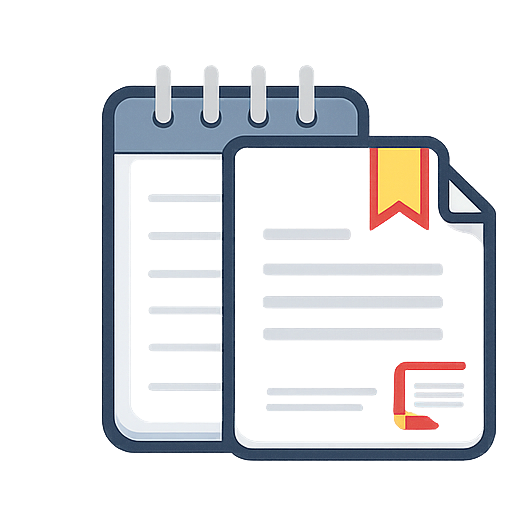
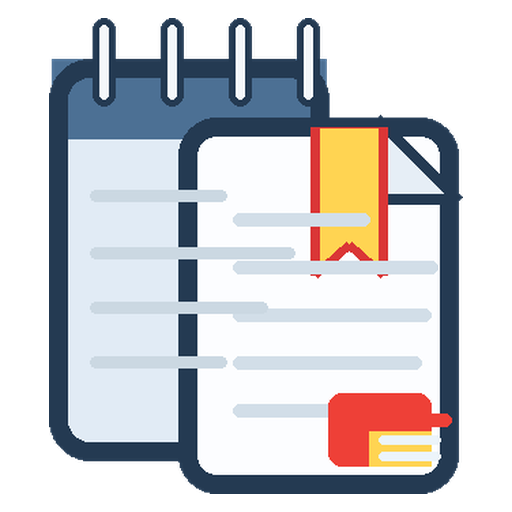
Add files via upload

diff --git a/app.py b/app.py
@@ -189,7 +189,7 @@ class PaperManagerWindow(QMainWindow):
 
         self.settings = self.load_settings()
 
-        self.setWindowTitle("LocalPaperManager v4")
+        self.setWindowTitle("LocalPaperManager")
         self.resize(1600, 850)
         self.setAcceptDrops(True)
 

diff --git a/README.md b/README.md
@@ -3,7 +3,7 @@
 LocalPaperManagerは、Zoteroの代替として使うことを目的に作成した、ローカル完結型の論文管理ツールです。  
 Python + PySide6 + SQLiteで動作し、PDFファイルとBibTeXデータをCドライブ上のローカルフォルダで管理します。
 
-外部クラウドストレージを使わず、PDF本体、文献情報、フォルダ分類、設定ファイルはすべてローカルに保存されます。
+外部クラウドストレージを使わず、PDF本体、文献情報、フォルダ分類、表示設定はすべてローカルに保存されます。
 
 ---
 
@@ -56,6 +56,14 @@ Python + PySide6 + SQLiteで動作し、PDFファイルとBibTeXデータをCド
 - 複数選択した論文のAPS形式参考文献をまとめてコピー
 - Volumeはリッチテキスト対応アプリでは太字で貼り付け可能
 
+出力例：
+
+```text
+H. Yoshioka, T. Nakamura, and T. Kimoto, “Characterization of very fast states in the vicinity of the conduction band edge at the SiO2/SiC interface by low temperature conductance measurements”, J. Appl. Phys. 115, 014502 (2014).
+```
+
+WordやGoogle Docsなどのリッチテキスト対応アプリに貼り付けた場合、Volume部分は太字になります。
+
 ---
 
 ## 動作環境
@@ -83,6 +91,9 @@ Pythonパッケージは `requirements.txt` からインストールできます
 
 ## フォルダ構成
 
+配布zipには、論文PDF、SQLiteデータベース、個人設定ファイルは含めていません。  
+`data/` と `library/` はアプリ実行時またはPDF取り込み時に作成されます。
+
 ```text
 LocalPaperManager/
 ├─ app.py
@@ -101,14 +112,12 @@ LocalPaperManager/
 │  ├─ app_icon.png
 │  ├─ pdf_icon.png
 │  └─ local_paper_manager_generated_icon_full.png
-├─ data/
+├─ data/              # 実行時に作成
 │  ├─ papers.db
 │  └─ settings.json
-└─ library/
+└─ library/           # PDF取り込み時に作成
    └─ PDFs/
 ```
-
-`data/` と `library/` は実行時またはインポート時に作成されます。
 
 ---
 
@@ -133,6 +142,25 @@ LocalPaperManager
 ```
 
 以後は、このショートカットをダブルクリックするだけで起動できます。
+
+---
+
+## デスクトップアイコンについて
+
+Windowsのショートカットでは、透明背景付きアイコンが黒塗りに見えることがあります。  
+本配布版では、デスクトップショートカット用の `app_icon.ico` は透過背景で作成しています。アイコンは透過背景のまま、キャンバス内で大きめに表示されるよう調整しています。
+
+既に古いショートカットを作成済みの場合は、古いショートカットを削除してから、以下をもう一度実行してください。
+
+```text
+setup_first_time.bat
+```
+
+または、以下を右クリックしてPowerShellで実行してください。
+
+```text
+create_desktop_shortcut.ps1
+```
 
 ---
 
@@ -355,13 +383,13 @@ Notes
 DOI欄に以下のように入力すると、
 
 ```text
-xxx/xxx
[phone redacted]/1.4890966
 ```
 
 URL欄に以下が自動入力されます。
 
 ```text
-https://doi.org/xxx/xxx
+https://doi.org/10.1063/1.4890966
 ```
 
 ### PublicationからJournal Abbrを自動補完
@@ -378,20 +406,6 @@ Journal Abbr欄に以下が自動入力されます。
 J. Appl. Phys.
 ```
 
-対応例：
-
-```text
-Journal of Applied Physics     → J. Appl. Phys.
-Applied Physics Letters        → Appl. Phys. Lett.
-Physical Review B              → Phys. Rev. B
-Physical Review Letters        → Phys. Rev. Lett.
-Physical Review Applied        → Phys. Rev. Appl.
-Japanese Journal of Applied Physics → Jpn. J. Appl. Phys.
-Science Advances               → Sci. Adv.
-```
-
-未登録の雑誌名についても、簡易的な略称推定を行います。
-
 ---
 
 ## PDFを開く
@@ -399,13 +413,6 @@ Science Advances               → Sci. Adv.
 PDFが登録されている論文には、PDF欄にPDFアイコンが表示されます。
 
 論文行をダブルクリックすると、Windowsで既定に設定されている外部PDFビューアでPDFを開きます。
-
-例：
-
-- Adobe Acrobat Reader
-- Microsoft Edge
-- SumatraPDF
-- その他既定のPDFビューア
 
 ---
 
@@ -544,6 +551,23 @@ data/settings.json
 
 ---
 
+## 配布zipに含めないもの
+
+著作権・個人データ保護のため、配布zipには以下を含めません。
+
+```text
+data/
+library/
+.venv/
+*.db
+*.sqlite
+*.pdf
+```
+
+実際の論文PDFや個人の文献データベースは、各自のローカル環境で管理してください。
+
+---
+
 ## トラブルシューティング
 
 ### PySide6がインストールできない
@@ -660,4 +684,3 @@ PDF本体:
 外部サービス:
     DOIからBibTeXを取得する場合のみdoi.orgへアクセス
 ```
-